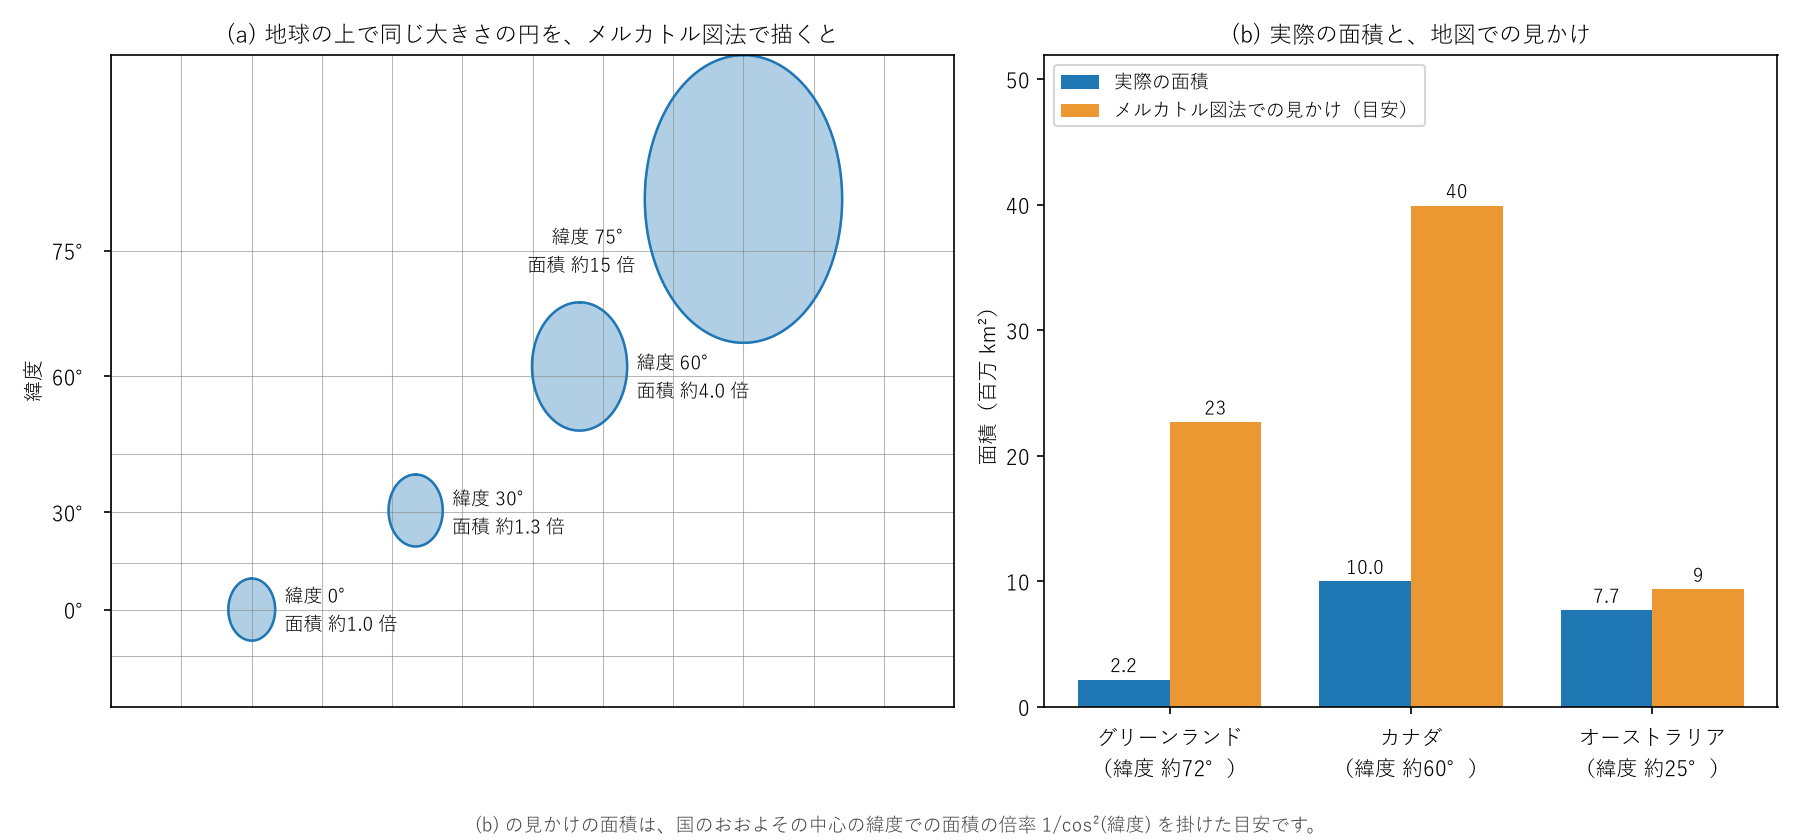
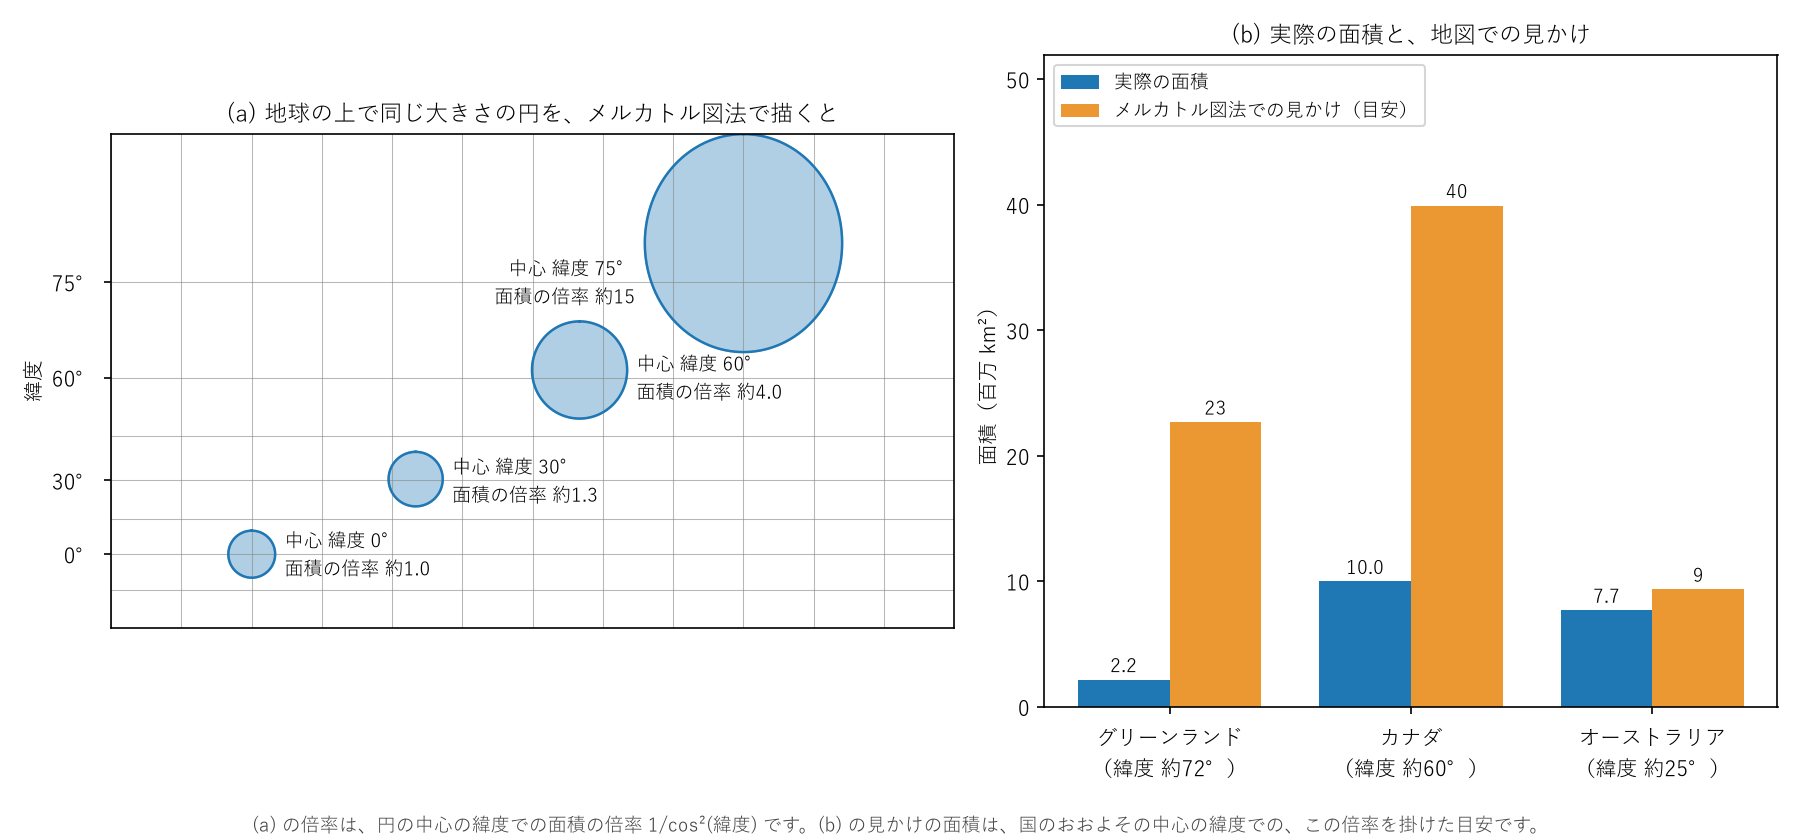
微分の本：Codex 指摘 #105〜#108 に対応（メルカトル図の縦横比と倍率の説明、はじめにと構想メモの状態）
- #105：図(a)の縦横の目盛りをそろえ、赤道の円が円に見えるようにした（assert で確認）
- #106：円のラベルの倍率は、中心の緯度での面積の倍率だと明記（図の注記、本文の図の説明と倍率の文も）
- #107：書籍/微分/README.md の「はじめに」の状態を「下書き」に
- #108：構想メモの冒頭と状態の行を、案内の章を先に下書きしたことと、ほかの章の判断条件に分けて書き直した

diff --git a/書籍/微分/figures/make_intro_figures.py b/書籍/微分/figures/make_intro_figures.py
@@ -65,10 +65,16 @@ def int01():
         width = xs.max() - xs.min()
         # 横幅の倍率は、小さな円では 1/cos φ に近い（赤道の円との比）
         ratio = width / (2 * rho)
+        if lat_d == 0:
+            # 赤道の円は、縦横の目盛りをそろえた地図で円に見える（縦と横の幅がほぼ等しい）
+            height = ys.max() - ys.min()
+            assert abs(width / height - 1) < 0.02, width / height
         if lat_d == 60:
             assert abs(ratio - 1 / np.cos(np.radians(60))) / 2 < 0.03, ratio
         f_area = 1 / np.cos(np.radians(lat_d)) ** 2
-        label = f"緯度 {lat_d}°\n面積 約{f_area:.1f} 倍" if f_area < 10 else f"緯度 {lat_d}°\n面積 約{f_area:.0f} 倍"
+        # 中心の緯度での面積の倍率 1/cos²φ（円全体の平均ではない。大きな円では、北側ほど倍率が大きい）
+        label = (f"中心 緯度 {lat_d}°\n面積の倍率 約{f_area:.1f}" if f_area < 10
+                 else f"中心 緯度 {lat_d}°\n面積の倍率 約{f_area:.0f}")
         if lat_d < 70:
             ax1.text(xs.max() + np.radians(4), mercator_y(np.radians(lat_d)), label, ha="left", va="center", fontsize=9)
         else:
@@ -79,6 +85,7 @@ def int01():
     ax1.set_yticks([mercator_y(np.radians(d)) for d in yt], [f"{d}°" for d in yt])
     ax1.set_xticks([])
     ax1.set_ylabel("緯度")
+    ax1.set_aspect("equal")  # 縦横の目盛りをそろえる（メルカトル図法は角度を保つので、赤道の円は円に見える）
     ax1.set_title("(a) 地球の上で同じ大きさの円を、メルカトル図法で描くと", fontsize=11)
 
     # (b) 実際の面積と、見かけの面積の目安
@@ -104,7 +111,8 @@ def int01():
     ax2.set_title("(b) 実際の面積と、地図での見かけ", fontsize=11)
 
     fig.text(0.5, 0.01,
-             "(b) の見かけの面積は、国のおおよその中心の緯度での面積の倍率 1/cos²(緯度) を掛けた目安です。",
+             "(a) の倍率は、円の中心の緯度での面積の倍率 1/cos²(緯度) です。"
+             "(b) の見かけの面積は、国のおおよその中心の緯度での、この倍率を掛けた目安です。",
              ha="center", fontsize=9, color="#444444")
     fig.tight_layout(rect=(0, 0.04, 1, 1))
     fig.savefig(OUT / "int01_mercator.png", dpi=150)

diff --git a/書籍/微分/00_はじめに.md b/書籍/微分/00_はじめに.md
@@ -74,10 +74,10 @@ $$
 
 > **地球の表面を、どんなに小さな範囲でも、距離を正しく保ったまま平面の地図に写すことはできない。なぜでしょうか。**
 
-身近な例が、よく目にするメルカトル図法の世界地図です。この地図は、角度を正しく保つように作られています。そのかわり、赤道から離れるほど、ものが大きく描かれます。緯度60°では面積が約4倍、緯度75°では約15倍です。
+身近な例が、よく目にするメルカトル図法の世界地図です。この地図は、角度を正しく保つように作られています。そのかわり、赤道から離れるほど、ものが大きく描かれます。赤道の近くと比べて、緯度60°のあたりでは面積が約4倍、緯度75°のあたりでは約15倍に描かれます。
 
 ![メルカトル図法での大きさの歪み](figures/int01_mercator.png)
-*(a) 地球の上で同じ大きさの円を、メルカトル図法の地図に描いたもの。高緯度ほど大きくなります。(b) 実際の面積と、地図での見かけの面積の目安（国のおおよその中心の緯度での倍率を掛けたもの）。*
+*(a) 地球の上で同じ大きさの円を、メルカトル図法の地図に描いたもの。高緯度ほど大きくなります。数字は、円の中心の緯度での面積の倍率です。(b) 実際の面積と、地図での見かけの面積の目安（国のおおよその中心の緯度での倍率を掛けたもの）。*
 
 そのため、地図で見る印象と、実際の大きさは、かなり違います。
 

diff --git a/docs/book_plan_differentiation.md b/docs/book_plan_differentiation.md
@@ -1,10 +1,10 @@
 # 構想メモ：『微分のすべてをここにおいてきた。』（仮）
 
 > **作成** 2026-10-01　**更新** 2026-11-15
-> 微分をテーマにした本（＋Web 演習）の構想メモ。現時点では原稿の素材の保存だけで、執筆は、素材のノートの手計算での検証が終わってから判断する。
+> 微分をテーマにした本（＋Web 演習）の構想メモ。案内の章（はじめに）は先に下書きした。ほかの章の執筆は、素材のノートの手計算での検証の進み具合を見て判断する。
 
 - 作成: 2026-10-01
-- 状態: **構想段階。現時点では原稿素材の保存のみ。執筆は、素材のノートの手計算での検証が終わってから判断する。**
+- 状態: **構想段階。案内の章（`書籍/微分/00_はじめに.md`）は、目視の確認で先に出せる章として、2026-11-15 に下書きした（Codex の監査と SymPy の検算を通した）。ほかの章は、素材のノートの手計算での検証の進み具合を見て、書くかどうかを判断する。検証の前に公開するときは、章の冒頭にその旨を書く（「公開の方針」の「検証の状態」）。**
 - 量子ロードマップ（`roadmap.md`）とは別枠の構想。
 - 題名: 『微分のすべてをここにおいてきた。』、副題「接線から曲率、そして現代数学へ」（表紙に合わせる。2026-11-15）。
 

diff --git a/書籍/微分/README.md b/書籍/微分/README.md
@@ -24,7 +24,7 @@ Lean の証明は、ビルドの環境を一つにするため、このフォル
 
 | 章 | ファイル（仮） | 素材のノート | 状態 |
 |---|---|---|---|
-| はじめに | `00_はじめに.md` | （新規） | 未着手 |
+| はじめに | [`00_はじめに.md`](00_はじめに.md) | （新規） | 下書き（2026-11-15。Codex の監査と SymPy の検算は通した。体験談の事実関係は著者の確認待ち） |
 | 準備1 極限と収束 | `P1_極限と収束.md` | 01/power_series_radius_of_convergence.md（Part I） | 未着手 |
 | 準備2 1変数の微分 | `P2_1変数の微分.md` | 01/functions_linear_maps_derivatives_integrals.md（Part III） | 未着手 |
 | 準備3 ベクトルと行列 | `P3_ベクトルと行列.md` | 01/functions_linear_maps_derivatives_integrals.md（Part II） | 未着手 |
